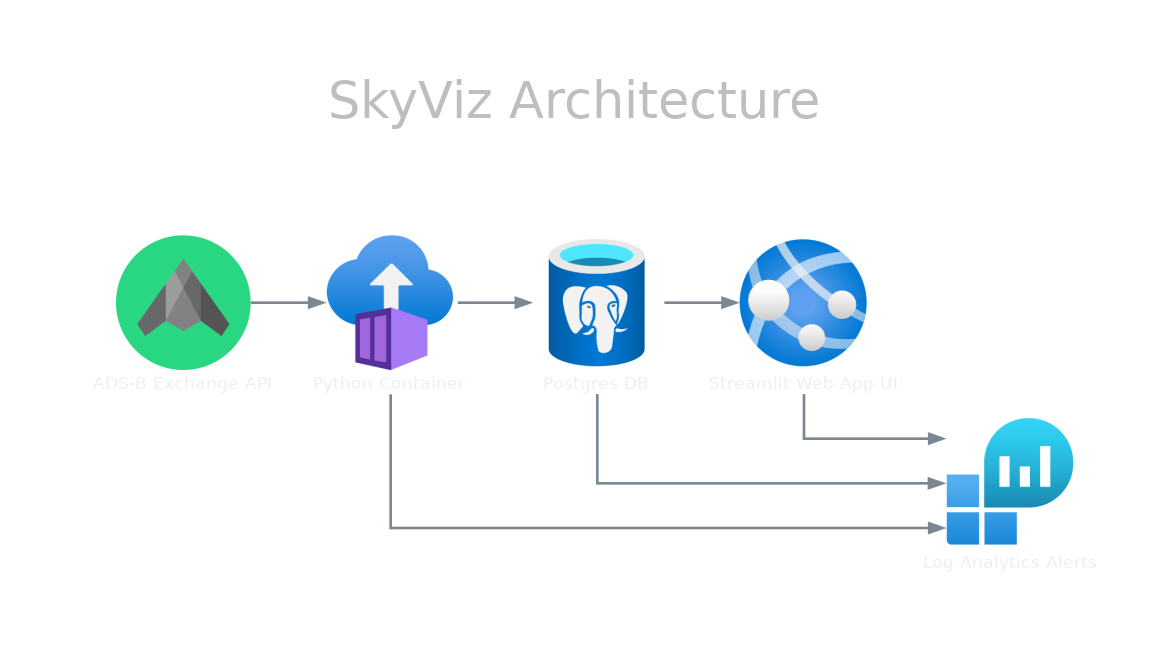
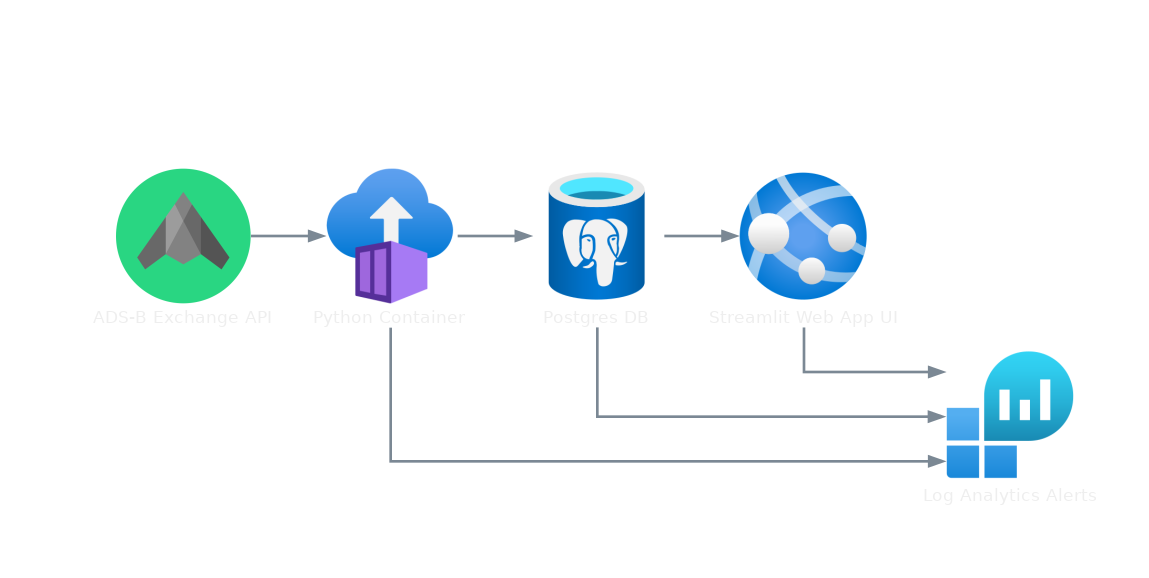
no title

diff --git a/scripts/architecture_diagram.py b/scripts/architecture_diagram.py
@@ -43,7 +43,7 @@ edge_attr = {
     "penwidth": "2.0",
 }
 
-with Diagram("SkyViz Architecture", filename=output_filepath, graph_attr=graph_attr, node_attr=node_attr,
+with Diagram(filename=output_filepath, graph_attr=graph_attr, node_attr=node_attr,
              edge_attr=edge_attr, show=False):
     with Cluster("Data Flow", graph_attr=cluster_attr):
         adsb_api = Custom("ADS-B Exchange API", adsb_exchange_logo)
